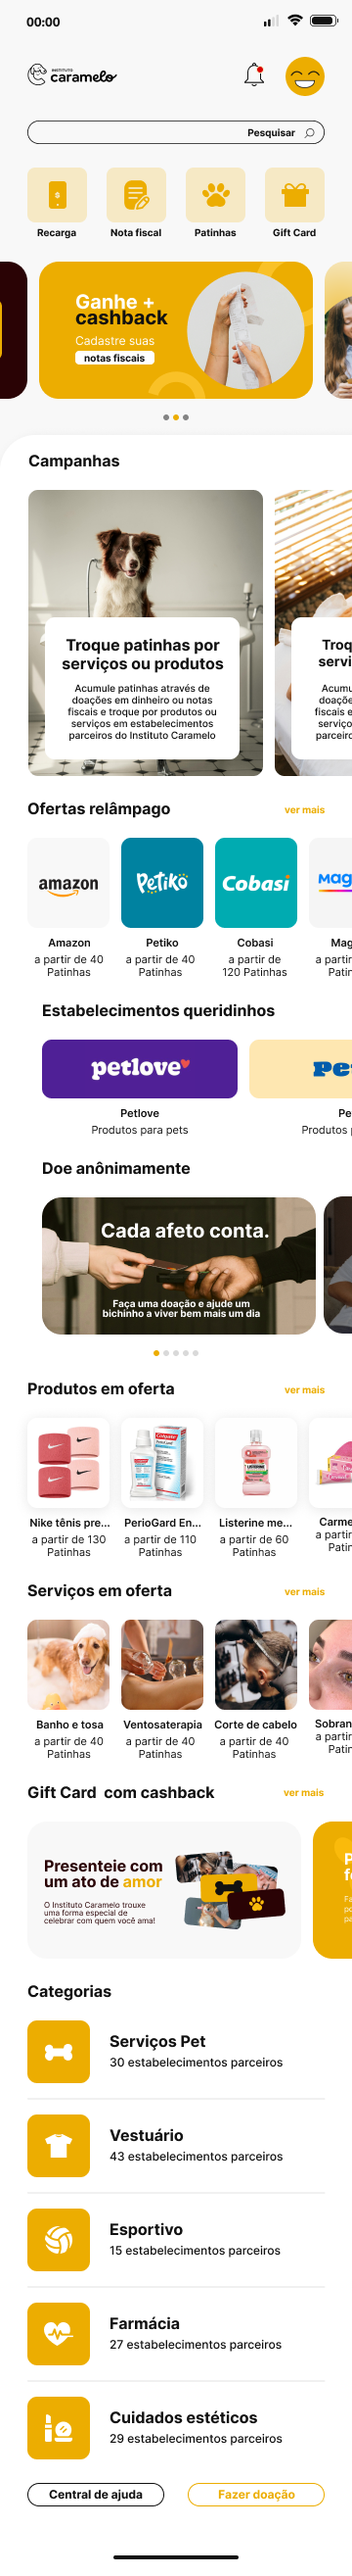
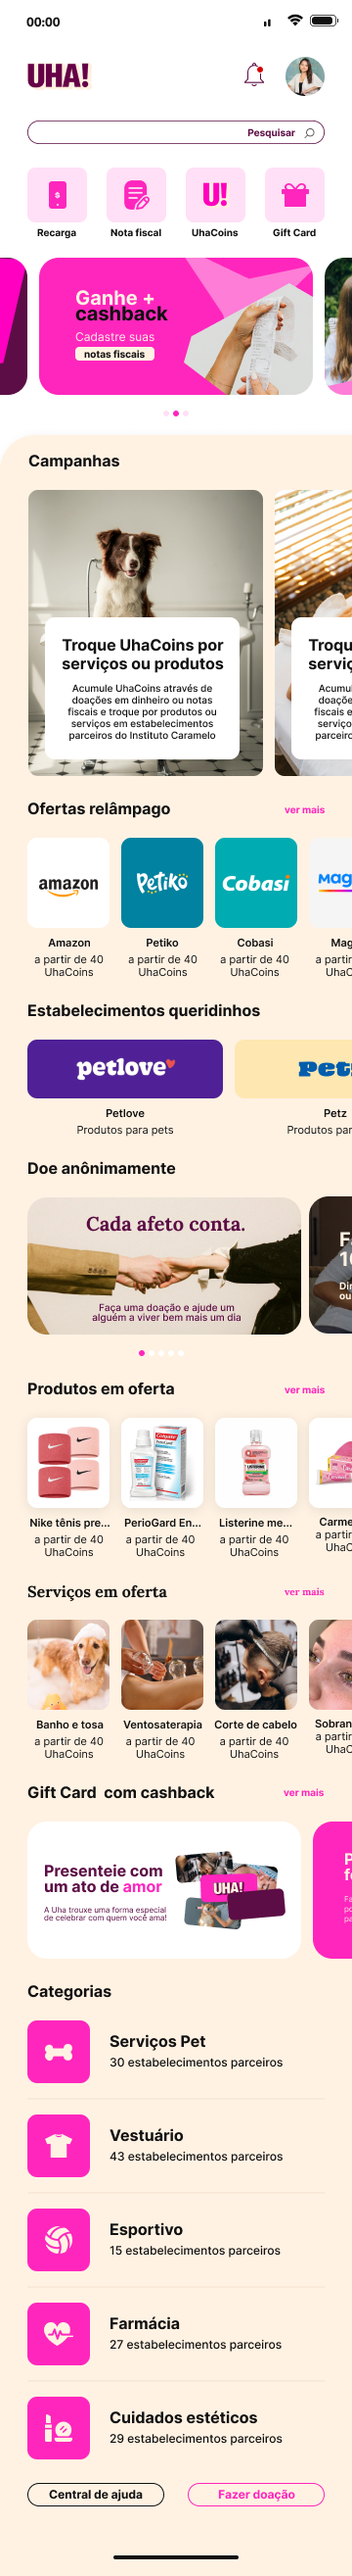
new home screen modify notify animation

diff --git a/src/screens/home/index.js b/src/screens/home/index.js
@@ -11,12 +11,66 @@ import Notify from '@components/notify';
 
 export default function HomeScreen({navigation, }){
     const { color, font, margin, } = useContext(ThemeContext);
+
+    const campanhas = [
+        {
+            id: 1,
+            title: 'Troque UhaCoins por serviços ou produtos',
+            label: 'Acumule UhaCoins através de doações em dinheiro ou notas fiscais e troque por produtos ou serviços em estabelecimentos parceiros do Instituto Caramelo',
+            img: 'https://s3-alpha-sig.figma.com/img/5434/cab6/b4252e09af75aa2c6a770207a05e73e2?Expires=1717372800&Key-Pair-Id=APKAQ4GOSFWCVNEHN3O4&Signature=pEjGmMV~nMRsGN1ifAc1Q5BpNd1MolpTMMu9QsZzk9isEd8yRQP5Uoka0tcU2JMWbLCbHe891vrGUTmKPUh7mJOL1L-bus0bw6HpX-rfPuo64cnHlZlw1XVduEzeCaTu4err0pkDu4f8lp-ESa0rDz6aAk9MSBm0Frq~sIM~IBWzmBPhDohbq04YnYFNB~IydaDcyR1yhP0~TuWkFquEfTdVx76VwgJv00cyG8BAU7Jm-K2TEOT8G1ghSp4vxUjyJw2y3QbCApbJTAEinlO2t5dwZIrZPtrrBxP7mbf6~hnac1ykdbWmEGaWD4UqkY3TBqdlRXvBHZba4zcaIdNjmg__',
+        },
+        {
+            id: 2,
+            title: 'Troque UhaCoins por serviços ou produtos',
+            label: 'Acumule UhaCoins através de doações em dinheiro ou notas fiscais e troque por produtos ou serviços em estabelecimentos parceiros do Instituto Caramelo',
+            img: 'https://s3-alpha-sig.figma.com/img/cd97/5f11/248b1d913a7ba72e095ee6c4be8f8b89?Expires=1717372800&Key-Pair-Id=APKAQ4GOSFWCVNEHN3O4&Signature=oeFbAPQO5QRtjZ~UqFLXaaxFL7aIs0ztuihHJuYRHddCTiXTLkcQ5F0c-MIl79Czc0N-jQM6YwelJ1GimC7zSWDdgSF3XQg0RLF4-IRiHqsSEl-ikLJXM8fsMCgGc6kIHvviNDtT4P21S5gBBl94A23q0osyduNe-3Cfsb6~f-BG4fVqm4CFNmn~Lom-nzOkUGm3MuFts5~ZyWMfRql26o6q8-a9cfrh2E72lnAr3McTV1~OKa~F35sXJeGbE9BMNPL5S4jae1aJjAt2S6iFcJgXnO7DVt8H-ofet~PCbWRTy~URVUwH0wq-GBcDKghxe3QZ9jZkhBCdugljKFOWkw__',
+        },
+         
+    ]
+    const ofertas = [
+        {
+            id: 1,
+            img: 'https://s3-alpha-sig.figma.com/img/4c66/0867/6c84334565a589145097476dc01670cb?Expires=1717372800&Key-Pair-Id=APKAQ4GOSFWCVNEHN3O4&Signature=IfUJfPsjJcQ5slRuOudFAmk-9ylSTuHlN8yFtfVyukVUp~62v5Pigic1FN~UXcUsjaF3uBrbL~FOhKnUjgSnEMQ3O0wbhQCSzOKlLAUdXhzvjo-AbuEhd4ArufjPFLIWfKiIO0Um~Y0DgBpQjCQtirFeG9a2fGsrGG6~VhGk9tEm-YEzbSWyyPhdfLK1xzcj28f4ig7jb8E6mFsJmIvJ6B6C1kobwxFpYbGzVOzcsSIk6qwfp0dpTkYRSgihThIFFwWIqT1XEbvOTx2BJ2s9qd6PZ8Y2BbkjWMjw~ya18culyoEW8J2sTvAPr7r7rH7ErOOJ8kgw16oA6BUIb43xrQ__',
+            title: 'Amazon',
+            label: 'A partir de 40 UhaCoins',
+            color: '#',
+        },
+        {
+            id: 2,
+            img: 'https://s3-alpha-sig.figma.com/img/683a/c80e/c9779a5a76b8d506a2530eb53b15946a?Expires=1717372800&Key-Pair-Id=APKAQ4GOSFWCVNEHN3O4&Signature=AZW8DbGmjQhp-7TknKs1VqolzwZV5basJQ4pKuOPMfTarDDnhY5GKDzu9obl61L6SbJOJhXVf4o~GNFwfMCjkoaoehXKhvzTKjxLMZeDnb-OEsfGS96BYkKmkTORdhNDFilvNw52K1K3lJuETLVymEoWdb3VRG57i1sbO-WsvlJYSczVeVsEyXRAMSHWaR1FFgmphZLNuqoP1P3hhCbSdSLpYARwwPapIxt4bNvi7DX2VOLl2PwGpN7tNRYMy~1gtO6walGeSB5C~I8P1Ry89ceUDXwu3adniKbQgXfyhrYyCJy-0-LHvVGNNLtncVX8KfdCtkvZdP19yVkg2xBlmw__',
+            title: 'Petiko',
+            label: 'A partir de 40 UhaCoins',
+            color: '#',
+        },
+        {
+            id: 3,
+            img: 'https://s3-alpha-sig.figma.com/img/bff7/7c8b/4316eb39bec33a2159778f1a0a432b4c?Expires=1717372800&Key-Pair-Id=APKAQ4GOSFWCVNEHN3O4&Signature=oinykAGdXGlxaw2hTL4RoJacXL24i-7Q7-zObgl8MGNnTj6XtlXLGort8YWxx44KJZPlYdXO-ejztyKAXMJ6KbXhf14t4wCiRGdtxUGn8VDgJDwbLbuBCnf0tRNPsuJirdu3y4benVJ4hYcc4qLCtOUVodRKa0q2ltaMZL15rKf~g3ef2xDy7SSlDuBna~LvOTbKHSWco9lxVmQkfSsbFmd43PvUn9aK1lkJB~fSDvrhYzstYByP~wG2OzLcXV~hVsOAfmAd6lsfR59rT6EL0zPVsJB~AEh~hUbFY3PPHHHmeBeCY8JLUcLXKt~EUImo94O8rRfF0eLbBZZmYL4hMw__',
+            title: 'Cobasi',
+            label: 'A partir de 40 UhaCoins',
+            color: '#',
+        },
+    ]
+
+    const estabelecimentos = [
+        {
+            id: 1,
+            title: 'Petlove',
+            label: 'Produtos para pets',
+            img: 'https://s3-alpha-sig.figma.com/img/a196/95c7/a0392246afa51ad99465778e4944981b?Expires=1717372800&Key-Pair-Id=APKAQ4GOSFWCVNEHN3O4&Signature=iGWRFym2RE5NskPEesbnCHdHjatERaoKAylAceVJWYB4mfKACXjyo-pUHb3L4a6B93YZ7qlNiLCztZ8U6bhQRunB~gzYWTMSLlci41r-sH7ShTL2kFUui3BHbrRRtRZkO0L-oGFf0XUDBRIBsVfN~r7U0NcpP9rmCK5lH27udZLWN0tAW-JOvdNMXjhOaloPr53fvqyO8mwtpUIH~RAxrhVb95G2J~NQO6Ost9MEZYq3-qJENcXXtuido8xmx-fuqfNl900e3j2O0UoXNnNEvbrf7owS0asOiU5cCueaFlIfb6F9mHi8m9m0ypXnwIgvDNGLicD0Z3xF3ErWqmaLrg__',
+        },
+        {
+            id: 2,
+            title: 'Petz',
+            label: 'Produtos para pets',
+            img: 'https://s3-alpha-sig.figma.com/img/aad2/2bcf/05aaad067e4c51be08492dfe129ff979?Expires=1717372800&Key-Pair-Id=APKAQ4GOSFWCVNEHN3O4&Signature=qOjXeBvpe0RD-hgWWSL4mIhMEGUDNg3TB~O-AQHxwHjngcGTIEF~LmnmntyvYHyjDsCWh8OF7MueJpS27MuxM818Z~tFqJh-uepsLkXMXbmU-Pi1njX6-wdUBBqiZIlL2wrkoHa9f~zugrXYVIfgHb9a05rkgEirBnKqYWlpfSb~353HTSmVHKRhtVhQw-ZBgZuqxIRX1LrnzHR05xdSlxRWgb20SMbm9V2pW3s-UCMQQqhuE7IYIuWDRS5DUwV~cFMTb7v0-R2wdBkmAk~d7T35dk-xP9U~IDSjyY9sesiq4O~APT~sucV9i6TFfA~aAEtEwP~Aw5-cz7IJaQchHQ__',
+        }
+    ]
+
     return (
-        <Main>
+        <Main style={{ backgroundColor: "#fff" }}>
             <Scroll>
-                
                 <Row style={{ justifyContent: 'space-between', alignItems: 'center', marginHorizontal: margin.h }}>
-                    <MotiImage source={require('@imgs/logo_black_nobg.png')} style={{ width: 200,  height: 60, }} />
+                    <MotiImage source={require('@imgs/logo_black_nobg.png')} style={{ width: 100, height: 40,  objectFit: 'contain', }} />
 
                     <Row style={{ justifyContent: 'center', alignItems: 'center',  }}>
                         <Notify />
@@ -33,25 +87,25 @@ export default function HomeScreen({navigation, }){
                 
                 <Row style={{ justifyContent: 'space-between', alignItems: 'center', marginHorizontal: margin.h, marginBottom: 24, }}>
                     <Column style={{ justifyContent: 'center', alignItems: 'center',  }}>
-                        <Button onPress={() => {navigation.navigate('Redeem')}}  rippleColor={color.secundary} style={{ backgroundColor:"#F6E9C5", padding: 18, borderRadius: 12, }}>
+                        <Button onPress={() => {navigation.navigate('Redeem')}}  rippleColor={color.secundary} style={{ backgroundColor:  color.primary+20, padding: 18, borderRadius: 12, }}>
                             <MotiImage source={require('@imgs/recarga.png')} resizeMode='contain' style={{ width: 34, height: 34, }} />
                         </Button>
                         <Label style={{ marginTop: 4, fontFamily: font.medium, fontSize: 14, color: color.title, textAlign: 'center' }}>Resgate</Label>
                     </Column>
                     <Column style={{ justifyContent: 'center', alignItems: 'center',  }}>
-                        <Button onPress={() => {navigation.navigate('Notafiscal')}}  rippleColor={color.secundary} style={{ backgroundColor:"#F6E9C5", padding: 18, borderRadius: 12, }}>
+                        <Button onPress={() => {navigation.navigate('Notafiscal')}}  rippleColor={color.secundary} style={{ backgroundColor: color.primary+20, padding: 18, borderRadius: 12, }}>
                             <MotiImage source={require('@imgs/nota.png')} resizeMode='contain' style={{ width: 34, height: 34, }} />
                         </Button>
                         <Label style={{ marginTop: 4, fontFamily: font.medium, fontSize: 14, color: color.title, textAlign: 'center' }}>Nota fiscal</Label>
                     </Column>
                     <Column style={{ justifyContent: 'center', alignItems: 'center',  }}>
-                        <Button onPress={() => {navigation.navigate('BuyService')}} rippleColor={color.secundary} style={{ backgroundColor:"#F6E9C5", padding: 18, borderRadius: 12, }}>
+                        <Button onPress={() => {navigation.navigate('BuyService')}} rippleColor={color.secundary} style={{ backgroundColor: color.primary+20, padding: 18, borderRadius: 12, }}>
                             <MotiImage source={require('@imgs/patinhas.png')} resizeMode='contain' style={{ width: 34, height: 34, }} />
                         </Button>
                         <Label style={{ marginTop: 4, fontFamily: font.medium, fontSize: 14, color: color.title, textAlign: 'center' }}>Patinhas</Label>
                     </Column>
                     <Column style={{ justifyContent: 'center', alignItems: 'center',  }}>
-                        <Button onPress={() => {navigation.navigate('BuyServiceGiftCard')}}  rippleColor={color.secundary} style={{ backgroundColor:"#F6E9C5", padding: 18, borderRadius: 12, }}>
+                        <Button onPress={() => {navigation.navigate('BuyServiceGiftCard')}}  rippleColor={color.secundary} style={{ backgroundColor: color.primary+20, padding: 18, borderRadius: 12, }}>
                             <MotiImage source={require('@imgs/gift.png')} resizeMode='contain' style={{ width: 34, height: 34, }} />
                         </Button>
                         <Label style={{ marginTop: 4, fontFamily: font.medium, fontSize: 14, color: color.title, textAlign: 'center' }}>Gift Card</Label>
@@ -60,36 +114,99 @@ export default function HomeScreen({navigation, }){
 
                 <Carrousel color={color}/>
 
-                <Column style={{ paddingHorizontal: margin.h, backgroundColor: "#fff", paddingVertical: 20, borderTopLeftRadius: 32,  }}>
-                    <Title>Campanhas</Title>
+                <Column style={{ paddingHorizontal: margin.h, backgroundColor: color.background, paddingVertical: 20, borderTopLeftRadius: 32,  }}>
+                    <Title style={{ marginTop: 8, }}>Campanhas</Title>
+
+                    <FlatList
+                        style={{ marginVertical: 12, marginHorizontal: - margin.h, }}
+                        data={campanhas}
+                        ListFooterComponent={<Column style={{ width: 24 }} />}
+                        ListHeaderComponent={<Column style={{ width: 24 }} />}
+                        showsHorizontalScrollIndicator={false}
+                        horizontal
+                        renderItem={({item}) => (
+                            <Button style={{ backgroundColor: "#fff", borderRadius: 24,  marginRight: 12, }}>
+                                <Column>
+                                    <MotiImage source={{uri: item.img}} style={{ width: 300, height: 400, borderRadius: 24,  }} />
+                                    <Column style={{ backgroundColor: '#fff', marginHorizontal: 24, padding: 12, borderRadius: 24, position: 'absolute', bottom: 20, }}>
+                                        <Title style={{ textAlign: 'center', marginTop: 6, }}>{item.title}</Title>
+                                        <Label style={{ textAlign: 'center', marginTop: 12, color: color.title, fontFamily: font.medium, fontSize: 16, marginBottom: 12, }}>{item.label}</Label>
+                                    </Column>
+                                </Column>
+                            </Button>
+                        )}
+                        keyExtractor={item => item.id}
+                    />            
+
                 </Column>
 
-                <Row style={{ paddingHorizontal: margin.h, backgroundColor: "#fff", paddingVertical: 20,  justifyContent: 'space-between', alignItems: 'center',   }}>
+                <Row style={{ paddingHorizontal: margin.h,  backgroundColor: color.background, paddingVertical: 20,  justifyContent: 'space-between', alignItems: 'center',   }}>
                     <Title>Ofertas relâmpago</Title>
                     <Pressable>
                         <Label style={{ color: color.primary, fontFamily: font.bold, fontSize: 18, }}>Ver mais</Label>
                     </Pressable>
                 </Row>
+                
+                <Column style={{ backgroundColor: color.background, }}>
+                        <FlatList 
+                            data={ofertas}
+                            ListFooterComponent={<Column style={{ width: 24 }} />}
+                            ListHeaderComponent={<Column style={{ width: 24 }} />}
+                            showsHorizontalScrollIndicator={false}
+                            horizontal
+                            renderItem={({item}) => (
+                                <Button style={{  borderRadius: 24,  marginRight: 12, }}>
+                                    <Column style={{ justifyContent: 'center', alignItems: 'center',  }}>
+                                        <MotiImage source={{uri: item.img}} style={{ width: 92, height: 92, borderRadius: 12, objectFit: 'cover', backgroundColor: "#fff", }} />
+                                            <Title style={{ textAlign: 'center', marginTop: 6, fontSize: 16, }}>{item.title}</Title>
+                                            <Label style={{ textAlign: 'center', width: 84, fontSize: 12, lineHeight: 16, color: color.title, fontFamily: font.medium,  marginBottom: 12, }}>{item.label}</Label>
+                                    </Column>
+                                </Button>
+                            )}
+                            keyExtractor={item => item.id}
+                        />
+                </Column>
 
-
-                <Column style={{ paddingHorizontal: margin.h, backgroundColor: "#fff", paddingVertical: 20,   }}>
+                <Column style={{ paddingHorizontal: margin.h,  paddingVertical: 20, backgroundColor: color.background,   }}>
                     <Title>Estabelecimentos queridinhos</Title>
                 </Column>
-                <Column style={{ paddingHorizontal: margin.h, backgroundColor: "#fff", paddingVertical: 20,   }}>
+
+                <FlatList style={{ backgroundColor: color.background, }}
+                        data={estabelecimentos}
+                        ListFooterComponent={<Column style={{ width: 24 }} />}
+                        ListHeaderComponent={<Column style={{ width: 24 }} />}
+                        showsHorizontalScrollIndicator={false}
+                        horizontal
+                        renderItem={({item}) => (
+                            <Button style={{  borderRadius: 24,  marginRight: 12, }}>
+                                <Column>
+                                    <MotiImage source={{uri: item.img}} style={{ width: 200, height: 60, borderRadius: 6, objectFit: 'cover',  }} />
+                                    <Title style={{ textAlign: 'center', marginTop: 6, fontSize: 18, }}>{item.title}</Title>
+                                    <Label style={{ textAlign: 'center',  color: color.title, fontFamily: font.medium, fontSize: 14, marginBottom: 12, }}>{item.label}</Label>
+                                </Column>
+                            </Button>
+                        )}
+                        keyExtractor={item => item.id}
+                    />
+                            
+
+                <Column style={{ paddingHorizontal: margin.h, backgroundColor: color.background, paddingVertical: 20,   }}>
                     <Title>Doe anônimamente</Title>
                     <Title>Produtos em oferta</Title>
                     <Title>Serviços em oferta</Title>
                     <Title>Gift Card com cashback</Title>
                     <Title>Categorias</Title>
                 </Column>
-                <Column style={{ paddingHorizontal: margin.h, backgroundColor: "#fff", paddingVertical: 20,  borderBottomRightRadius: 32, marginBottom: 20, }}/>
-                <Row style={{ justifyContent: 'space-between', alignItems: 'center', marginHorizontal: margin.h, }}>
-                    <Button style={{ borderWidth: 2, borderColor: '#111', paddingHorizontal: 20, paddingVertical: 12, borderRadius: 100, }}>
-                        <Label style={{ fontFamily: font.bold, color: '#111', }}>Central de ajuda</Label>
-                    </Button>
-                    <Button style={{ borderWidth: 2, borderColor: color.primary, paddingHorizontal: 20, paddingVertical: 12, borderRadius: 100, }}>
-                        <Label style={{ fontFamily: font.bold, color: color.primary, }}>Fazer doação</Label>
-                    </Button>
+
+                <Column style={{ paddingHorizontal: margin.h, backgroundColor: color.background, paddingVertical: 20,  borderBottomRightRadius: 32,   }}/>
+                
+                <Row style={{ justifyContent: 'space-between', alignItems: 'center', paddingHorizontal: margin.h, backgroundColor: color.background,}}>
+                        <Button style={{ borderWidth: 2, borderColor: '#111', paddingHorizontal: 20, paddingVertical: 12, borderRadius: 100, }}>
+                            <Label style={{ fontFamily: font.bold, color: '#111', }}>Central de ajuda</Label>
+                        </Button>
+                        <Button style={{ borderWidth: 2, borderColor: color.primary, paddingHorizontal: 20, paddingVertical: 12, borderRadius: 100, }}>
+                            <Label style={{ fontFamily: font.bold, color: color.primary, }}>Fazer doação</Label>
+                        </Button>
                 </Row>
 
             </Scroll>

diff --git a/src/screens/notify/index.js b/src/screens/notify/index.js
@@ -38,8 +38,6 @@ export default function NotifyScreen({ navigation, }) {
         }, 600);
     }
 
-
-
     const handleItem = (item) => {
         setcache(item)
         setsingle(true)
@@ -50,7 +48,7 @@ export default function NotifyScreen({ navigation, }) {
                 <Header title='Notificações' />
                 <Row style={{ paddingHorizontal: margin.h, }}>
                     <AnimatePresence>
-                        {type != null && <MotiView transition={{duration: 500, }} from={{opacity: 0, translateX: -30,}} animate={{opacity: 1, translateX: 0}} exit={{opacity: 0, }}><Button onPress={handleClean} rippleColor={color.secundary}  style={{ paddingVertical: 10, paddingHorizontal: 20, backgroundColor: "#F6E9C5", marginTop: 12,  borderRadius: 100,}} >
+                        {type != null && <MotiView transition={{duration: 500, }} from={{opacity: 0, translateX: -30,}} animate={{opacity: 1, translateX: 0}} exit={{opacity: 0, }}><Button onPress={handleClean} rippleColor={color.secundary}  style={{ paddingVertical: 10, paddingHorizontal: 20, backgroundColor: color.primary+20, marginTop: 12,  borderRadius: 100,}} >
                                 <Row style={{ justifyContent: 'center', alignItems: 'center',  }}>
                                     <Title style={{ color: color.primary, fontSize: 18, marginRight: 6,}}>{type}</Title>
                                     <X color={color.primary}/>
@@ -94,7 +92,7 @@ export default function NotifyScreen({ navigation, }) {
                         <Button onPress={() => {settype('Movimentações')}}  style={{ borderBottomWidth: 2, borderBottomColor: color.off, paddingBottom: 12, marginTop: 12, }}>
                             <Row style={{ justifyContent: 'space-between', alignItems: 'center',  }}>
                                 <Row style={{ justifyContent: 'center', alignItems: 'center',  }}>
-                                    <Column style={{ backgroundColor: "#F6E9C5",padding: 18, borderRadius: 12, marginRight: 20, }}>
+                                    <Column style={{ backgroundColor: color.primary+20,padding: 18, borderRadius: 12, marginRight: 20, }}>
                                         <ArrowLeftRight color={color.secundary} size={38}/>
                                     </Column>
                                     <Column>

diff --git a/src/components/notify.js b/src/components/notify.js
@@ -1,13 +1,16 @@
-import { MotiImage } from 'moti';
-import { Button } from '@theme/global';
+import { MotiImage, MotiView } from 'moti';
+import { Button, Column } from '@theme/global';
 import { useNavigation } from '@react-navigation/native';
 import EvilIcons from '@expo/vector-icons/EvilIcons';
 const Notify = ({ url }) => {
     const navigation = useNavigation();
     return(     
+        <Column style={{ position: 'relative' }}>
+        <MotiView from={{opacity: 0, scale: .5, }} animate={{opacity: 1, scale: 1,}} transition={{delay: 400,}} style={{ width: 12, height: 12, backgroundColor: '#FF26BD', borderRadius: 100, position: 'absolute', top: 4, right: 4, zIndex: 99, borderWidth: 2, borderColor: "#fff", }}/>
         <Button onPress={() => {navigation.navigate('Notify')}} >
             <EvilIcons name="bell" size={32} color="#111" />
         </Button>
+        </Column>
         )}
 
 export default Notify;

diff --git a/src/components/avatar.js b/src/components/avatar.js
@@ -7,7 +7,7 @@ const Avatar = ({ url }) => {
     const img = url ? url : 'https://i.pinimg.com/736x/c5/e4/6f/c5e46f1afb9214486b57526a34705c7f.jpg';
     return(     
         <Button onPress={() => {navigation.navigate('Account')}} >
-            <MotiImage from={{opacity: 0,}} animate={{opacity: 1,}} source={{uri: img}} style={{width: 40, height: 40, borderRadius: 100}} />
+            <MotiImage from={{opacity: 0, scale: .6,}} animate={{opacity: 1, scale: 1,}} transition={{delay: 400,}} source={{uri: img}} style={{width: 40, height: 40, borderRadius: 100}} />
         </Button>
         )}
 

diff --git a/src/router/index.js b/src/router/index.js
@@ -64,7 +64,6 @@ export default function Router() {
             <Stack.Screen name="AccountDetails" component={AccountDetailsScreen} options={{...TransitionPresets.ModalPresentationIOS   , }}/>
 
 
-
         </Stack.Navigator>
     </NavigationContainer>
    );
